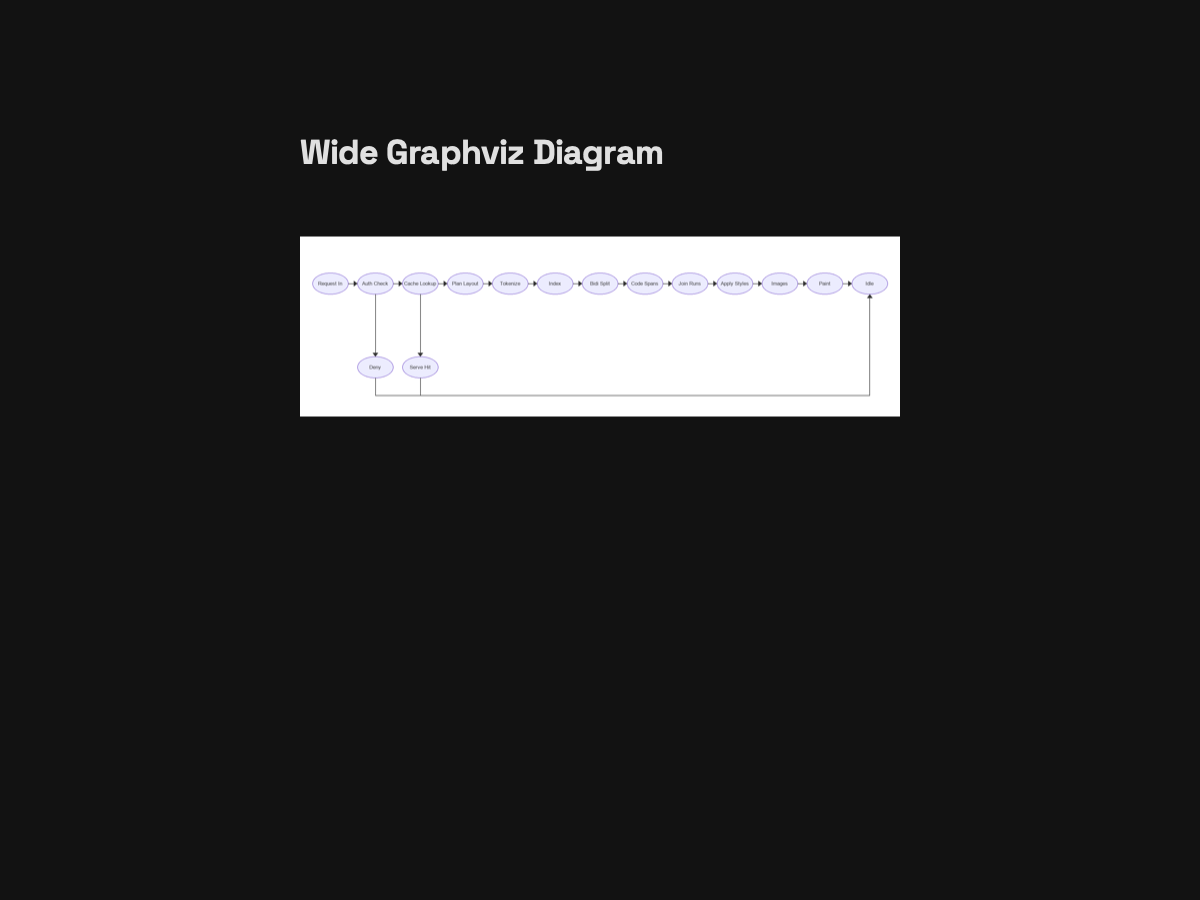
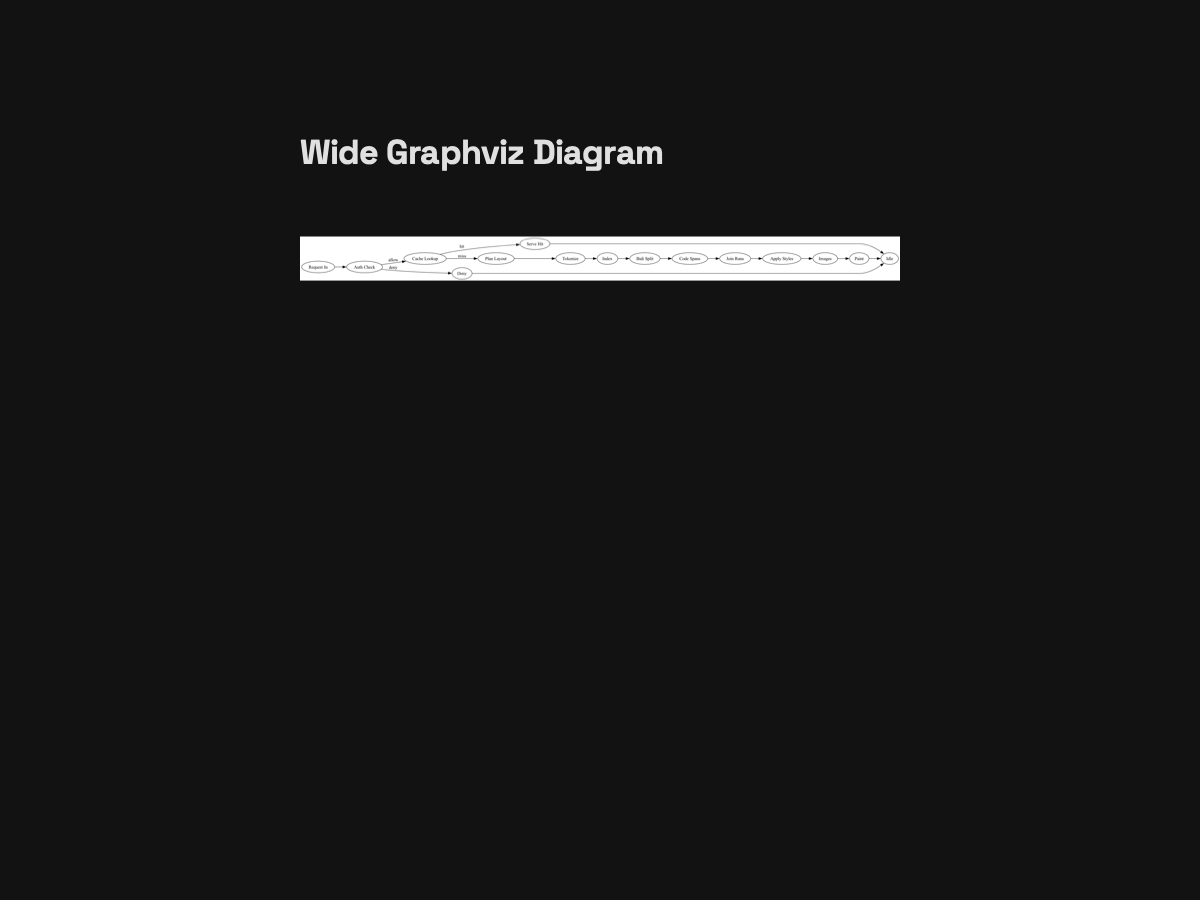
[#329] Real Graphviz renders for all seeds (round-two review)
Owner: the Pillow-mimicked seeds faked Graphviz support. All three
seeds are now genuine dot 16.0.0 output for the exact fixture fence
sources (dot -Tpng, the same flags the shipped helper uses), verified
reproducible: scripts/gen-plugin-seeds.py shells out to the real dot
binary (fails loudly without it) and regenerates pixel-identical assets
for all three. The dot fixtures compiled cleanly as written; only the
pixels change.

Tall scroll walk retuned to initial + 800 + 1600 (the real 705x2065
render fits; a 2400 third frame showed only trailing sliver plus empty
viewport, so it goes).

Suite 436/436 green. No src/ changes: ship binary untouched by this PR.

Changed region(s): [[0.2467, 0.2489, 0.7708, 0.4667]]

diff --git a/scripts/gen-plugin-seeds.py b/scripts/gen-plugin-seeds.py
@@ -1,16 +1,19 @@
 #!/usr/bin/env python3
 """Regenerate plugin seed PNGs (issues #330/#329/#328/#326/#327).
 
-Each seed is a faithful static mimic of a real renderer output for its
-test_cases/plugin_*.md fixture: d2/graphviz/plantuml draw the fixture's
-two-node diagram (labels mirror the fixture), math/mathjax draw the
-fixture's formula typeset in STIX. Tall/wide companions
-(*-seed-tall.png, *-seed-wide.png) mirror the tall/wide fixtures
-node-for-node the same way; math-seed.png draws the simplified fixture
-formula, *-seed-complex.png the complex companions. Synthetic-but-plausible
-stand-ins (no d2/dot/plantuml/katex binaries in this env); the screenshot
-path proven (stat-exists seed -> ready -> stock image decode) is production,
-per suite practice (cf. scripts/gen-mermaid-seed.py).
+graphviz seeds are genuine dot-engine renders of their
+test_cases/plugin_graphviz*.md fixture fence sources (dot 16.0.0; *_seed
+functions shell out to the real binary and fail loudly without it).
+Remaining seeds are faithful static mimics of real renderer output:
+d2/plantuml draw the fixture's diagram (labels mirror the fixture),
+math/mathjax draw the fixture's formula typeset in STIX. Tall/wide
+companions (*-seed-tall.png, *-seed-wide.png) mirror the tall/wide
+fixtures node-for-node the same way; math-seed.png draws the simplified
+fixture formula, *-seed-complex.png the complex companions.
+Synthetic-but-plausible stand-ins (no d2/plantuml/katex binaries in this
+env); the screenshot path proven (stat-exists seed -> ready -> stock
+image decode) is production, per suite practice
+(cf. scripts/gen-mermaid-seed.py).
 
 Requires Pillow (fixture generation only, never ships): pip install pillow.
 Usage:  python3 scripts/gen-plugin-seeds.py
@@ -53,6 +56,39 @@ def center_text(d, cx, cy, s, font):
     d.text((cx, cy), s, font=font, fill=INK, anchor="mm")
 
 
+def _real_tool_render(fixture_md, info_token, out_name, tool, args):
+    # Genuine engine render of the fixture's fence source (round-two
+    # revision: seeds are real tool output, never Pillow mimics). Fails
+    # loudly when the tool is absent so a synthetic image can never pass
+    # silently.
+    import subprocess
+    import tempfile
+    root = os.path.dirname(os.path.dirname(os.path.abspath(__file__)))
+    lines = open(os.path.join(root, fixture_md)).read().split('\n')
+    start = next(i for i, l in enumerate(lines)
+                 if l.lstrip().startswith('```') and
+                 l.lstrip()[3:].strip().split(' ')[:1] == [info_token])
+    end = next(i for i in range(start + 1, len(lines))
+               if lines[i].lstrip().startswith('```'))
+    with tempfile.NamedTemporaryFile('w', suffix='.src',
+                                     delete=False) as f:
+        f.write('\n'.join(lines[start + 1:end]) + '\n')
+        src = f.name
+    out = os.path.join(os.getcwd(), out_name)
+    try:
+        r = subprocess.run([tool] + [a.replace('SRC', src).replace(
+            'OUT', out) for a in args], capture_output=True, text=True)
+    except FileNotFoundError:
+        sys.exit("FAIL: %s binary not found (needed for %s)" %
+                 (tool, out_name))
+    finally:
+        os.unlink(src)
+    if r.returncode != 0 or not os.path.exists(out):
+        sys.exit("FAIL: %s render %s: %s" %
+                 (tool, fixture_md, (r.stderr or '').strip()))
+    return Image.open(out), out_name
+
+
 def d2_seed():
     # Fixture: direction:right, reader -> diagram: opens doc.
     W, H = 476, 280
@@ -72,20 +108,11 @@ def d2_seed():
 
 
 def graphviz_seed():
-    # Fixture (dot): rankdir=LR, reader -> diagram. Ellipse nodes are
-    # graphviz's default node shape.
-    W, H = 476, 280
-    im = Image.new("RGB", (W, H), BG)
-    d = ImageDraw.Draw(im)
-    font = load_font(ARIAL, 24)
-    e1 = (28, 96, 180, 184)
-    e2 = (296, 96, 448, 184)
-    d.ellipse(e1, fill=FILL, outline=EDGE, width=EDGE_W)
-    d.ellipse(e2, fill=FILL, outline=EDGE, width=EDGE_W)
-    center_text(d, 104, 140, "reader", font)
-    center_text(d, 372, 140, "diagram", font)
-    arrow_h(d, 180, 140, 296)
-    return im, "graphviz-seed.png"
+    # Fixture test_cases/plugin_graphviz.md: genuine dot output (16.0.0).
+    # Ellipse nodes are graphviz's default node shape.
+    return _real_tool_render("test_cases/plugin_graphviz.md", "dot",
+                             "graphviz-seed.png", "dot",
+                             ["-Tpng", "SRC", "-o", "OUT"])
 
 
 def plantuml_seed():
@@ -322,8 +349,10 @@ def d2_seed_tall():
 
 
 def graphviz_seed_tall():
-    # Same node set in dot idiom; ellipses are dot's default node shape.
-    return _draw_tall("ellipse"), "graphviz-seed-tall.png"
+    # Same node set in dot idiom; genuine dot output (16.0.0).
+    return _real_tool_render("test_cases/plugin_graphviz_tall.md", "dot",
+                             "graphviz-seed-tall.png", "dot",
+                             ["-Tpng", "SRC", "-o", "OUT"])
 
 
 # Wide pipeline fixture node sets (test_cases/plugin_{d2,graphviz}_wide.md):
@@ -388,8 +417,10 @@ def d2_seed_wide():
 
 
 def graphviz_seed_wide():
-    # Same node set in dot idiom (rankdir=LR); ellipses are dot's default.
-    return _draw_wide("ellipse"), "graphviz-seed-wide.png"
+    # Same node set in dot idiom (rankdir=LR); genuine dot output (16.0.0).
+    return _real_tool_render("test_cases/plugin_graphviz_wide.md", "dot",
+                             "graphviz-seed-wide.png", "dot",
+                             ["-Tpng", "SRC", "-o", "OUT"])
 
 
 # PlantUML tall/wide companions use the sequence-diagram idiom of the base
